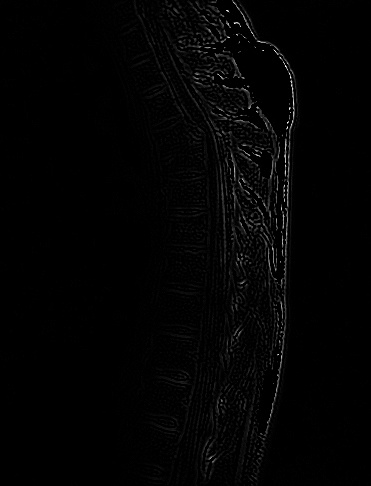
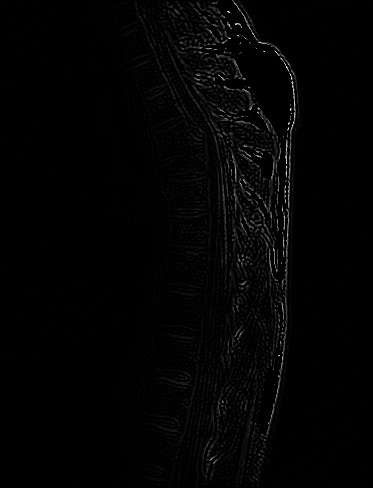
third project

diff --git a/project04_01/main.py b/project04_01/main.py
@@ -1,0 +1,112 @@
+import numpy as np
+def muled_1xy(arr: np.ndarray) -> np.ndarray:
+    '''
+    返回 arr 乘 (-1)^(x+y)
+    不会改变 arr 的值
+    '''
+    arr = arr.copy().astype(float)
+    arr[::2, 1::2] *= -1
+    arr[1::2, ::2] *= -1
+    return arr
+
+def mul_func(arr: np.ndarray, func: np.ndarray) -> np.ndarray:
+    '''
+    返回 arr 乘 func
+    要求两者形状相同
+    '''
+    return np.multiply(arr, func)
+
+def muled_1xy_andreal(arr: np.ndarray) -> np.ndarray:
+    '''
+    返回 arr 乘 (-1)^(x+y) 并取实部
+    不会改变 arr 的值
+    '''
+    return muled_1xy(arr.real)
+
+def FFT(arr: np.ndarray, inverse: bool = False) -> np.ndarray:
+    '''
+    自实现的快速傅里叶变换
+    要求 arr 的长宽均为 2 的幂次
+    inverse 为 True 时表示进行逆变换
+    '''
+    h, w = arr.shape
+    assert (h & (h - 1)) == 0 and (w & (w - 1)) == 0, "FFT: shape must be 2^x * 2^y"
+
+    def fft(arr: np.ndarray, axis: int, inverse: bool = False) -> np.ndarray:
+        '''
+        一维快速傅里叶变换
+        axis 为变换的轴
+        '''
+        n = arr.shape[axis]
+        if n == 1:
+            return arr
+
+        # 分治递归
+        odd_arr = arr.take(range(0, n, 2), axis)
+        even_arr = arr.take(range(1, n, 2), axis)
+        odd_fft = fft(odd_arr, axis, inverse)
+        even_fft = fft(even_arr, axis, inverse)
+
+        # 计算旋转因子
+        inv = 1 if inverse else -1
+        Wn = np.exp(inv * 2j * np.pi / n)
+        Wn_range = np.power(Wn, range(n // 2))
+        # 按axis广播
+        Wn_range = np.expand_dims(Wn_range, axis=axis ^ 1)
+
+        # 计算结果
+        return np.concatenate([odd_fft + Wn_range * even_fft, odd_fft - Wn_range * even_fft], axis=axis)
+
+    result = arr.copy()
+    result = fft(result, 0, inverse)
+    result = fft(result, 1, inverse)
+
+    if inverse:
+        result /= h * w
+    return result
+
+def dft_spectrum(arr: np.ndarray) -> np.ndarray:
+    '''
+    返回 arr 的频谱
+    '''
+    return np.abs(FFT(muled_1xy(arr)))
+
+# ==================== 测试 ====================
+
+def test_muled_1xy():
+    a = np.array([[1, 2, 3], [4, 5, 6], [7, 8, 9]])
+    print("=== test_muled_1xy ===")
+    print("muled_1xy:", muled_1xy(a))
+    print("origin:", a)
+
+def test_muled_1xy_andreal():
+    a = np.array([[1+1j, 2+2j, 3+3j], [4+4j, 5+5j, 6+6j], [7+7j, 8+8j, 9+9j]])
+    print("=== test_muled_1xy_andreal ===")
+    print("muled_1xy_andreal:", muled_1xy_andreal(a))
+    print("origin:", a)
+
+def test_FFT():
+    a = np.zeros((4, 4), dtype=float)
+    a[2, 0] -= 7.5
+    a[1, 3] += 3.5
+    a[1::2, 1::2] += 1
+    a[::3, 1:] += 1
+    a[1:, ::2] += 1
+    a[1:, :-2] += 1
+    a[::3, ::2] += 1
+    print("=== test_FFT ===")
+    print("FFT:", FFT(a))
+    print("IFFT-FFT:", FFT(FFT(a), True).real)
+    print("origin:", a)
+
+def test_func():
+    a = np.array([[1+1j, 2+2j, 3+3j], [4+4j, 5+5j, 6+6j], [7+7j, 8+8j, 9+9j]])
+    b = np.array([[1, 0, 1], [0, 2, 0], [3, 0, 3]])
+    print("=== test_func ===")
+    print("mul_func:", mul_func(a, b))
+    print("origin:", a)
+
+test_muled_1xy()
+test_muled_1xy_andreal()
+test_FFT()
+test_func()

diff --git a/project04_02/main.py b/project04_02/main.py
@@ -1,0 +1,101 @@
+import numpy as np
+def muled_1xy(arr: np.ndarray) -> np.ndarray:
+    '''
+    返回 arr 乘 (-1)^(x+y)
+    不会改变 arr 的值
+    '''
+    arr = arr.copy().astype(float)
+    arr[::2, 1::2] *= -1
+    arr[1::2, ::2] *= -1
+    return arr
+
+def mul_func(arr: np.ndarray, func: np.ndarray) -> np.ndarray:
+    '''
+    返回 arr 乘 func
+    要求两者形状相同
+    '''
+    return np.multiply(arr, func)
+
+def muled_1xy_andreal(arr: np.ndarray) -> np.ndarray:
+    '''
+    返回 arr 乘 (-1)^(x+y) 并取实部
+    不会改变 arr 的值
+    '''
+    return muled_1xy(arr.real)
+
+def FFT(arr: np.ndarray, inverse: bool = False) -> np.ndarray:
+    '''
+    自实现的快速傅里叶变换
+    要求 arr 的长宽均为 2 的幂次
+    inverse 为 True 时表示进行逆变换
+    '''
+    h, w = arr.shape
+    assert (h & (h - 1)) == 0 and (w & (w - 1)) == 0, "FFT: shape must be 2^x * 2^y"
+
+    def fft(arr: np.ndarray, axis: int, inverse: bool = False) -> np.ndarray:
+        '''
+        一维快速傅里叶变换
+        axis 为变换的轴
+        '''
+        n = arr.shape[axis]
+        if n == 1:
+            return arr
+
+        # 分治递归
+        odd_arr = arr.take(range(0, n, 2), axis)
+        even_arr = arr.take(range(1, n, 2), axis)
+        odd_fft = fft(odd_arr, axis, inverse)
+        even_fft = fft(even_arr, axis, inverse)
+
+        # 计算旋转因子
+        inv = 1 if inverse else -1
+        Wn = np.exp(inv * 2j * np.pi / n)
+        Wn_range = np.power(Wn, range(n // 2))
+        # 按axis广播
+        Wn_range = np.expand_dims(Wn_range, axis=axis ^ 1)
+
+        # 计算结果
+        return np.concatenate([odd_fft + Wn_range * even_fft, odd_fft - Wn_range * even_fft], axis=axis)
+
+    result = arr.copy()
+    result = fft(result, 0, inverse)
+    result = fft(result, 1, inverse)
+
+    if inverse:
+        result /= h * w
+    return result
+
+def dft_spectrum(arr: np.ndarray) -> np.ndarray:
+    '''
+    返回 arr 的频谱
+    '''
+    return np.abs(FFT(muled_1xy(arr)))
+
+import cv2
+from matplotlib import pyplot as plt
+img_path = "Fig4.11(a).jpg"
+img = cv2.imread(img_path, cv2.IMREAD_GRAYSCALE)
+
+img_pad = np.pad(img, ((6, 6), (6, 6)))
+
+spectrum = dft_spectrum(img_pad)
+# 归一化到 0-255
+spectrum = np.log(spectrum + 1)
+min_val, max_val = np.min(spectrum), np.max(spectrum)
+spectrum = (spectrum - min_val) / (max_val - min_val) * 255
+# 保存
+cv2.imwrite("spectrum.jpg", spectrum)
+
+plt.subplot(121)
+plt.imshow(img, cmap="gray")
+plt.title("Original Image")
+plt.axis("off")
+plt.subplot(122)
+plt.imshow(spectrum, cmap="gray")
+plt.title("Spectrum Centered: log(1 + |F(u, v)|)")
+plt.axis("off")
+plt.show()
+
+# 计算图像均值
+avg = np.abs(FFT(img_pad)[0, 0]) / img.size
+print("average:", avg)

diff --git a/project03_04/main.py b/project03_04/main.py
@@ -15,7 +15,7 @@ def img_filter(img: np.ndarray, kernel: np.ndarray) -> np.ndarray:
             img_out[i, j] = np.dot(img[i:i+h, j:j+w].ravel(), kernel)
     img_out = np.clip(img_out, 0, 255).astype('uint8')
     return img_out
-
+img_pad_33 = lambda img: np.pad(img, ((1, 1), (1, 1)), 'constant')
 
 
 import cv2
@@ -29,7 +29,7 @@ laplacian = np.array([[0, 1, 0],
                       [1, -4, 1],
                       [0, 1, 0]])
 # 图像滤波
-img_lap = img_filter(img, laplacian)
+img_lap = img_filter(img_pad_33(img), laplacian)
 # 显示图像
 cv2.imwrite('img/origin.jpg', img)
 cv2.imwrite('img/laplacian.jpg', img_lap)
